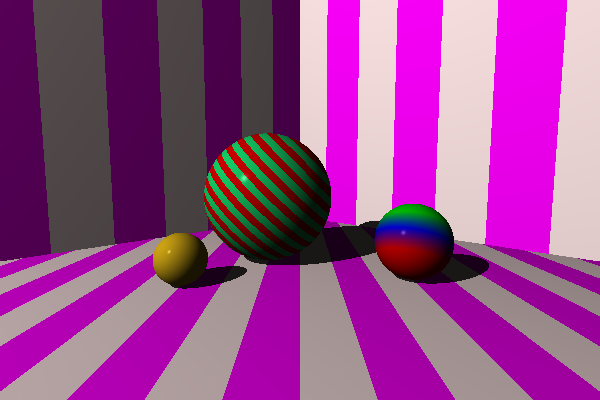
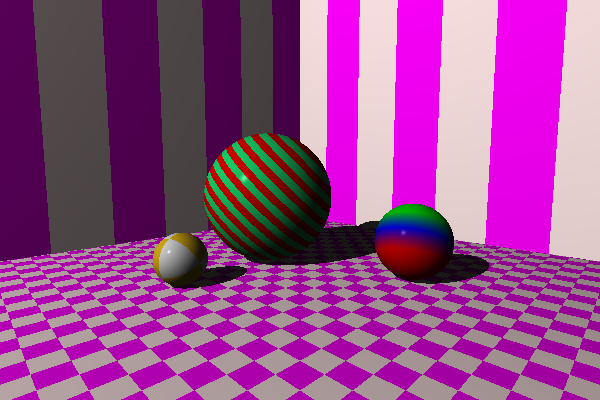
Chapter 10. Patterns - constant world space stripes - Checkerboard

Changed region(s): [[0.0, 0.57, 1.0, 1.0], [0.54, 0.54, 0.57, 0.57]]

diff --git a/ray_tracer/src/material/pattern/checker.rs b/ray_tracer/src/material/pattern/checker.rs
@@ -1,0 +1,122 @@
+use crate::Transform::Transform;
+use crate::material::pattern::Pattern;
+use math::tuple::color::Color;
+use math::tuple::point::Point;
+
+impl Pattern {
+    pub(crate) fn checker_color_at(
+        a: &Color,
+        b: &Color,
+        pattern_transform: &Transform,
+        object_point: Point,
+    ) -> Color {
+        let point = pattern_transform.world_point_to_object_point(object_point);
+        let x = point.x.floor() as i32;
+        let y = point.y.floor() as i32;
+        let z = point.z.floor() as i32;
+        if (x + y + z) % 2 == 0 { a } else { b }.clone()
+    }
+}
+
+#[cfg(test)]
+mod checker_pattern_tests {
+    use super::*;
+    use crate::material::pattern::Pattern::Checker;
+    use math::matrix::matrix_4x4::Matrix4x4;
+    use math::point;
+    use math::tuple::color::{BLUE, RED};
+
+    #[test]
+    fn a_checker_pattern_alternates_in_x() {
+        let pattern = Checker(*RED, *BLUE, Transform::identity());
+        assert_eq!(
+            pattern.color_at(point!(0, 0, 0), &Transform::identity()),
+            *RED
+        );
+        assert_eq!(
+            pattern.color_at(point!(1, 0, 0), &Transform::identity()),
+            *BLUE
+        );
+        assert_eq!(
+            pattern.color_at(point!(2, 0, 0), &Transform::identity()),
+            *RED
+        );
+        assert_eq!(
+            pattern.color_at(point!(3, 0, 0), &Transform::identity()),
+            *BLUE
+        );
+    }
+
+    #[test]
+    fn a_checker_pattern_alternates_in_y() {
+        let pattern = Checker(*RED, *BLUE, Transform::identity());
+        assert_eq!(
+            pattern.color_at(point!(0, 0, 0), &Transform::identity()),
+            *RED
+        );
+        assert_eq!(
+            pattern.color_at(point!(0, 1, 0), &Transform::identity()),
+            *BLUE
+        );
+        assert_eq!(
+            pattern.color_at(point!(0, 2, 0), &Transform::identity()),
+            *RED
+        );
+        assert_eq!(
+            pattern.color_at(point!(0, 3, 0), &Transform::identity()),
+            *BLUE
+        );
+    }
+
+    #[test]
+    fn a_checker_pattern_alternates_in_z() {
+        let pattern = Checker(*RED, *BLUE, Transform::identity());
+        assert_eq!(
+            pattern.color_at(point!(0, 0, 0), &Transform::identity()),
+            *RED
+        );
+        assert_eq!(
+            pattern.color_at(point!(0, 0, 1), &Transform::identity()),
+            *BLUE
+        );
+        assert_eq!(
+            pattern.color_at(point!(0, 0, 2), &Transform::identity()),
+            *RED
+        );
+        assert_eq!(
+            pattern.color_at(point!(0, 0, 3), &Transform::identity()),
+            *BLUE
+        );
+    }
+
+    #[test]
+    fn a_checker_pattern_applies_the_supplied_object_transform() {
+        let pattern = Checker(*RED, *BLUE, Transform::identity());
+        let transform = &Transform::new(Matrix4x4::scale(2., 1., 1.));
+        assert_eq!(pattern.color_at(point!(0, 0, 0), transform), *RED);
+        assert_eq!(pattern.color_at(point!(1, 0, 0), transform), *RED);
+        assert_eq!(pattern.color_at(point!(2, 0, 0), transform), *BLUE);
+        assert_eq!(pattern.color_at(point!(3, 0, 0), transform), *BLUE);
+    }
+
+    #[test]
+    fn a_checker_pattern_applies_the_pattern_transform() {
+        let pattern = Checker(*RED, *BLUE, Transform::new(Matrix4x4::scale(2., 1., 1.)));
+        assert_eq!(
+            pattern.color_at(point!(0, 0, 0), &Transform::identity()),
+            *RED
+        );
+        assert_eq!(
+            pattern.color_at(point!(1, 0, 0), &Transform::identity()),
+            *RED
+        );
+        assert_eq!(
+            pattern.color_at(point!(2.1, 0, 0), &Transform::identity()),
+            *BLUE
+        );
+        assert_eq!(
+            pattern.color_at(point!(3.1, 0, 0), &Transform::identity()),
+            *BLUE
+        );
+    }
+}

diff --git a/demo/src/chapter7_scene.rs b/demo/src/chapter7_scene.rs
@@ -1,6 +1,6 @@
 use crate::Material;
 use math::matrix::matrix_4x4::Matrix4x4;
-use math::tuple::color::{BLUE, Color, GREEN, RED};
+use math::tuple::color::{BLUE, Color, GREEN, RED, WHITE};
 use math::{Angle, color, degrees, point, vector};
 use ray_tracer::Transform::Transform;
 use ray_tracer::camera::Camera;
@@ -35,10 +35,10 @@ pub fn ray_trace_end_chapter_7_scene<C: Canvas<Color>>(canvas: &mut C) {
 fn floor() -> Shape {
     let mut floor = Shape::new_plane();
     let mut material = Material::default();
-    material.pattern = Pattern::Stripe(
+    material.pattern = Pattern::Checker(
         color!(1, 0.9, 0.9),
         color!(1, 0, 1),
-        Transform::new(Matrix4x4::scale(0.5, 1., 1.)),
+        Transform::new(Matrix4x4::rotation_y(degrees!(45)).pre_scale_all(0.25)),
     );
     material.specular = 0.;
     floor.material = material;
@@ -75,7 +75,7 @@ fn green_sphere() -> Shape {
 fn small_green_sphere() -> Shape {
     let mut sphere = Shape::new_sphere_transformed(
         Matrix4x4::translation(1.5, 0.5, -0.5)
-            .pre_scale(0.5, 0.5, 0.5)
+            .pre_scale_all(0.5)
             .pre_rotation_y(degrees!(30))
             .pre_rotation_x(degrees!(30)),
     );
@@ -90,7 +90,7 @@ fn small_green_sphere() -> Shape {
         Transform::new(
             Matrix4x4::rotation_z(degrees!(90))
                 .pre_translation(-1., 0., 0.)
-                .pre_scale(2., 2., 2.),
+                .pre_scale_all(2.),
         ),
     );
     material.diffuse = 0.7;
@@ -101,10 +101,19 @@ fn small_green_sphere() -> Shape {
 
 fn smallest_yellow_sphere() -> Shape {
     let mut sphere = Shape::new_sphere_transformed(
-        Matrix4x4::translation(-1.5, 0.33, -0.75).pre_scale(0.33, 0.33, 0.33),
+        Matrix4x4::translation(-1.5, 0.33, -0.75)
+            .pre_scale_all(0.33)
+            .pre_rotation_y(degrees!(30))
+            .pre_rotation_x(degrees!(-30)),
     );
     let mut material = Material::default();
-    material.pattern = Pattern::Solid(color!(1, 0.8, 0.1));
+    material.pattern = Pattern::Checker(
+        color!(1, 0.8, 0.1),
+        *WHITE,
+        // TODO: BUG, without some scale, the pattern does not align exactly
+        //  Even though it's a unit sphere and unit repeating pattern.
+        Transform::new(Matrix4x4::scale_all(1.2)),
+    );
     material.diffuse = 0.7;
     material.specular = 0.3;
     sphere.material = material;

diff --git a/math/src/matrix/matrix_4x4/transformation_chain_tests.rs b/math/src/matrix/matrix_4x4/transformation_chain_tests.rs
@@ -10,7 +10,7 @@ mod chain_tests {
     fn chain() {
         assert_eq!(
             Matrix4x4::translation(10., 5., 7.)
-                * Matrix4x4::scale(5., 5., 5.,)
+                * Matrix4x4::scale_all(5.)
                 * Matrix4x4::rotation_x(radians!(PI / 2.))
                 * point!(1., 0., 1.),
             point!(15., 0., 7.).into()
@@ -21,7 +21,7 @@ mod chain_tests {
     fn chain_reversed() {
         assert_eq!(
             Matrix4x4::rotation_x(radians!(PI / 2.))
-                * Matrix4x4::scale(5., 5., 5.,)
+                * Matrix4x4::scale_all(5.)
                 * Matrix4x4::translation(10., 5., 7.)
                 * point!(1., 0., 1.),
             point!(55., -40., 24.999998).into()
@@ -32,7 +32,7 @@ mod chain_tests {
     fn chain_fluent() {
         assert_eq!(
             Matrix4x4::translation(10., 5., 7.)
-                .pre_scale(5., 5., 5.,)
+                .pre_scale_all(5.)
                 .pre_rotation_x(radians!(PI / 2.))
                 * point!(1., 0., 1.),
             point!(15., 0., 7.).into()
@@ -43,7 +43,7 @@ mod chain_tests {
     fn chain_fluent_reversed() {
         assert_eq!(
             Matrix4x4::rotation_x(radians!(PI / 2.))
-                .pre_scale(5., 5., 5.,)
+                .pre_scale_all(5.)
                 .pre_translation(10., 5., 7.)
                 * point!(1., 0., 1.),
             point!(55., -40., 24.999998).into()

diff --git a/math/src/matrix/matrix_4x4/scaling.rs b/math/src/matrix/matrix_4x4/scaling.rs
@@ -10,8 +10,16 @@ impl Matrix4x4 {
         m
     }
 
+    pub fn scale_all(scale: f32) -> Matrix4x4 {
+        Self::scale(scale, scale, scale)
+    }
+
     pub fn pre_scale(&self, x: f32, y: f32, z: f32) -> Matrix4x4 {
         self.clone() * Matrix4x4::scale(x, y, z)
+    }
+
+    pub fn pre_scale_all(&self, scale: f32) -> Matrix4x4 {
+        self.pre_scale(scale, scale, scale)
     }
 }
 
@@ -30,10 +38,24 @@ mod scale_tests {
     }
 
     #[test]
+    fn scale_all_point() {
+        let m = Matrix4x4::scale_all(2.);
+        let p = point!(-4., 6., 8.);
+        assert_eq!(m * p, point!(-8., 12., 16.).into());
+    }
+
+    #[test]
     fn scale_point_fluent() {
         let m = Matrix4x4::identity().pre_scale(2., 3., 4.);
         let p = point!(-4., 6., 8.);
         assert_eq!(m * p, point!(-8., 18., 32.).into());
+    }
+
+    #[test]
+    fn scale_all_point_fluent() {
+        let m = Matrix4x4::identity().pre_scale_all(2.);
+        let p = point!(-4., 6., 8.);
+        assert_eq!(m * p, point!(-8., 12., 16.).into());
     }
 
     #[test]

diff --git a/ray_tracer/src/material/pattern/mod.rs b/ray_tracer/src/material/pattern/mod.rs
@@ -1,3 +1,4 @@
+pub mod checker;
 pub mod gradient;
 mod stripes;
 
@@ -11,6 +12,7 @@ pub enum Pattern {
     Solid(Color),
     Stripe(Color, Color, Transform),
     Gradient(GradientStops, Transform),
+    Checker(Color, Color, Transform),
 }
 
 impl Default for Pattern {
@@ -31,6 +33,12 @@ impl Pattern {
             ),
             Pattern::Gradient(stops, pattern_transform) => Self::gradient_color_at(
                 stops,
+                pattern_transform,
+                transform.world_point_to_object_point(point),
+            ),
+            Pattern::Checker(a, b, pattern_transform) => Self::checker_color_at(
+                a,
+                b,
                 pattern_transform,
                 transform.world_point_to_object_point(point),
             ),

diff --git a/README.md b/README.md
@@ -13,6 +13,12 @@ Drawing on a canvas
 
 Matrices
 
+# Chapter 10
+
+Patterns
+
+To Visit - couple of patterns left out, Ring and Perturbed. 
+
 # Running
 
 ## Testing 
